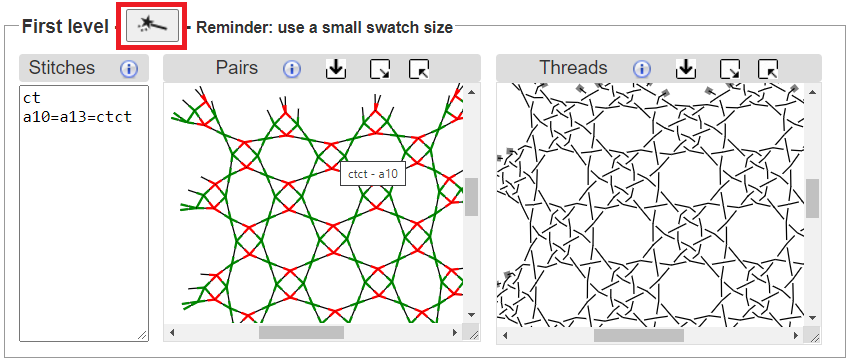
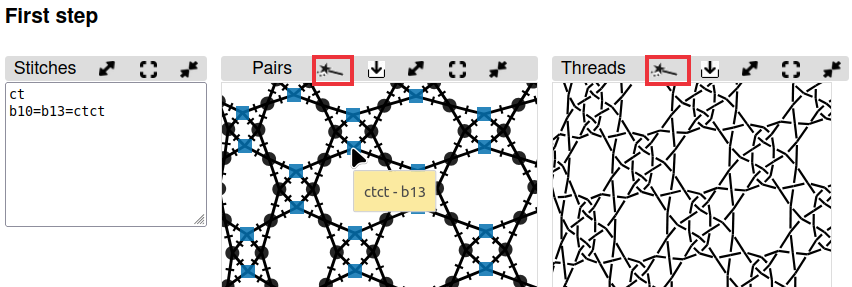
dropped old color code, cross ref

diff --git a/docs/Droste-effect.md b/docs/Droste-effect.md
@@ -6,30 +6,61 @@ title: Droste effect
 Droste effect
 =============
 
+* [Thread diagram as pair diagram](#thread-diagram-as-pair-diagram)
+* [Input boxes "stitches"](#input-boxes-stitches)
+* [Stitch gallery](#stitch-gallery)
+* [repeat the process](#repeat-the-process)
+* [Examples](#examples)
+
 Thread diagram as pair diagram
 ------------------------------
-**This feature is still under construction.  We welcome any suggestions on how to improve it.**
 
 In a typical pair diagram, two pairs intersect at each crossing and then continue.  In a thread diagram, two threads meet at each crossing and then continue.  So why not take a thread diagram, flatten all the over/under information, and use it as a pair diagram?  Using this technique, you can quickly create a new, usually more complex, pattern.  This process can be repeated over and over again, as long as your computer has enough power to handle the increased complexity.    In mathematics, this is called ["recursion"](https://en.wikipedia.org/wiki/Recursion).  In art, it is sometimes called the ["Droste effect"](https://en.wikipedia.org/wiki/Droste_effect).
 
 ![](images/simple-droste.png)
 
-To apply this technique in GroundForge, click on the ![wand](/GroundForge/images/wand.png) image beside _First level_ under the _Thread diagram as pair diagram_ heading. 
- 
-![](images/reuse.png)
+GroundForge uses its own [color code](/GroundForge-help/color-rules) shown on the second row. 
+This color-code accommodates unorthodox stitches.
 
-There are several options for specifying which stitches appear in the new thread diagram.
+The red arrow above represents a link to use the _thread diagram as pair diagram_.
+As generating diagrams may be time-consuming, you have to click a ![wand](/GroundForge/images/wand.png) to show the thread diagram. 
 
-By default, every stitch is `ctc`.  You can assign a new default stitch by typing the actions (such as `ct`) in the input box that appears to the left of the new pair diagram. You can also assign a stitch to every "cross" in the original thread diagram by typing `cross=...` (for example, `cross=ctcll`) in the input box.  Similarly, you assign a stitch to every "twist" in the original thread diagram using `twist=...`.  For finer control, you can specify a stitch for a specific intersection.  First find the identity of the intersection in the new pair diagram (hover over the intersection until the id appears), then give it a new value in the input box such as `b10=clcl`.  You can combine any of these options in the input box.  Use a new line or a comma to separate each instruction. After editing the stitches in the input box, click on the ![wand](/GroundForge/images/wand.png) image beside _First level_ under the _Thread diagram as pair diagram_ heading. 
+Input boxes "stitches"
+----------------------
+
+The input boxes called _stitches_ have several options for specifying which stitches appear in the new thread diagram.
+Grey backgrounds for diagrams indicate they are out of sync with the changes content of the input box.
+As the diagrams may be slow to render, changes in the input box cause grey backgrounds for the diagrams to indicate they are out of sync.
+Click the wands to update the diagrams.
+
+By default, every stitch is `ctc`.  You can assign a new default stitch by typing the actions (such as `ct`) in the input box that appears to the left of the new pair diagram. You can also assign a stitch to every "cross" in the original thread diagram by typing `cross=...` (for example, `cross=ctcll`) in the input box.  Similarly, you assign a stitch to every "twist" in the original thread diagram using `twist=...`.  For finer control, you can specify a stitch for a specific intersection.  First find the identity of the intersection in the new pair diagram (hover over the intersection until the id appears), then give it a new value in the input box such as `b10=clcl`.  You can combine any of these options in the input box.  Use a new line or a comma to separate each instruction.
 
 ![](images/droste-assign-stitches.png)
 
-To repeat this process a second time, click on the ![wand](/GroundForge/images/wand.png) image beside _Second level_ under the _Thread diagram as pair diagram_ heading.   This will create another new thread diagram by using the thread diagram from the first level as a pair diagram.
+Stitch gallery
+--------------
+
+Above the first step, you can find a stitch gallery with some fields and instructions that suggest to change the pair diagram. 
+In fact, it adds specifications at the bottom of the input box in a less elaborate way.
+Frequently occurring stitches are better specified manually at the top of the input box.
+The quick changes may cause the same id mentioned several times in the input box. 
+The last occurrence is the one that counts.
+To clean up you can use the search function of your browser to find duplicates in order remove the preceding ones.
+
+Repeat the process
+------------------
+
+To repeat this process a second time, click on the ![wand](/GroundForge/images/wand.png) images for the second step. This will create another new thread diagram by using the thread diagram from the first level as a pair diagram. 
+You may want to get the first step out of the way by [minimizing] the panels for the diagrams.
+Remember to refresh the thread diagram after refreshing the pair diagram, otherwise you still get outdated results.
+
+[minimizing]: /GroundForge-help/clips/resize
 
 ![](images/droste-repeat-assign-stitches.png)
 
 
-## Examples
+Examples
+--------
 
 Pair diagrams of several traditional grounds are very similar to thread diagrams of more basic grounds.  The following tables show a few examples.
  
@@ -66,10 +97,11 @@ Base  | Base &rarr; First Level    | First level     | [Whiting catalogue](/gw-l
 Experiment
 -------------------------
 
-For the base pattern, start with something small.  For example, enter an even number of alternating rows of `8`'s and `1`'s or `-`'s and `5`'s in the _Pattern definition_ area of _Edit pattern_. Then click on the blue square of the simple layout (see below).  Next click on the ![wand](/GroundForge/images/wand.png) image beside _First level_ under the _Thread diagram as pair diagram_ heading. Remember to keep the swatch size small.  A large swatch size may be very slow. 
+For the base pattern, start with something small.  For example, enter an even number of alternating rows of `8`'s and `1`'s or `-`'s and `5`'s in the [Pattern definition](https://d-bl.github.io/GroundForge/pattern) page. Then click on the blue square of the simple layout (see below).  Next follow the link to _stitches and threads_ and finally follow the link to the _Thread diagram as pair diagram_ page. Each page has a link back to the previous page and a button to show page specific help subjects.
+
+Remember to keep the swatch size small.  A large swatch size may be very slow. 
 
 ![](images/init-droste.png)
 
-Try a variety of stitches in the base pattern and the first and second level patterns.  Here are some to consider:
-
-{% include stitches.html %}
+Try a variety of stitches in the base pattern and the first and second level patterns.
+Try your own variations on the stitches show in the galleries.

diff --git a/docs/color-rules.md b/docs/color-rules.md
@@ -6,8 +6,17 @@ title: 4 colors per stitch
 Color codes
 ===========
 
-The Belgian color code and [similar systems](Color-Code) are designed for traditional styles of bobbin lace.
-When experimenting with unorthodox stitches and grounds we need more than half a dozen of colors for a universal legend.
+Various dialects of color codes for pair diagrams are used by bobbin lace designers:
+There is at least a [Belgian] version, a simplified [Danish] version and a [red-blue] version and perhaps more.
+These dialects use just one color per stitch what accommodates at most about half a dozen of stitches.
+
+These systems have in common that only one color represents a stitch.
+These are easy to draw by hand and sufficient for traditional styles of bobbin lace.
+When experimenting with unorthodox stitches and grounds we need to distinguish more than those half a dozen of colors.
+
+[Belgian]: https://www.mail-archive.com/lace@arachne.com/msg51345.html
+[Danish]: https://www.mail-archive.com/lace@arachne.com/msg51355.html
+[red-blue]: https://susanroberts.info/wp-content/uploads/2019/08/Working-diagrams-part-2.pdf
 
 [2x2swatches](/GroundForge/images/to-color-rules.png)  serves as a reminder:
 the color numbers are arranged in a clockwise order
@@ -61,15 +70,13 @@ The sampler by [Gertrude Whiting](gw-lace-to-gf) has some interesting examples i
 [F9](/GroundForge/stitches?whiting=F9_P185&patchWidth=26&patchHeight=26&m1=ctc&e1=ctc&o3=llcttctt&k3=cttctt&g3=ctcrrrctc&e3=ctc&c3=ctcllctc&g4=ctc&e4=ctc&i5=llctctt&g5=ctc&e5=ctc&c5=ctc&a5=rrctctt&e6=ctc&c6=ctc&o7=cttctt&k7=cttctt&g7=ctcrrctcrr&e7=ctc&c7=ctcllctcll&tile=--x-5-x---x-c-x-,-----w-----y-w--,--g-g-c---b---c-,---w8-mv-yx---xw,h-g-f-f-5-x---x-,-w8-mv---w-----y,--f-f-c---c---b-,--xw--x---xw-yx-&footsideStitch=ctctt&tileStitch=ctc&headsideStitch=ctctt&shiftColsSW=-8&shiftRowsSW=8&shiftColsSE=8&shiftRowsSE=8).
 Below a variation of F9 to show the difference between the tick marks for double and triple twists. The pattern shows also variations of winkie pins.
 
-![](images/F9-variation.png) ![](/gw-lace-to-gf/w/page185a.gif)
+![](images/F9-variation.png) ![GW sampler F9](images/gw-F9.png)
 
 Notes
 -----
 
 The color scheme was selected from [colorbrewer](https://colorbrewer2.org/?type=diverging&scheme=RdBu&n=5)
 because of its color-blind friendly properties.
-
-The pair diagrams based on thread diagrams still apply a [variation](Color-Code) of the Belgian color-code with buggy numbers of twist marks. 
 
 Not having twists between stitches encoded in the colors of the stitches, 
 makes the diagrams agnostic to the open (start with twist) and close (end with twist) method.

diff --git a/docs/_includes/Sidebar.md b/docs/_includes/Sidebar.md
@@ -20,9 +20,7 @@
   ![-](/GroundForge/images/minimize.png)
 * [Apply forces](/GroundForge-help/Icons) ![-](/GroundForge/images/animate.png)
 * [Download](/GroundForge-help/Download) ![-](/GroundForge/images/download.jpg)
-* Color codes, twist marks
-    * [1 color per stitch](/GroundForge-help/Color-Code)
-    * [up to 4 per stitch](/GroundForge-help/color-rules) ![-](/GroundForge/images/to-color-rules.png)
+* [Color code](/GroundForge-help/color-rules) ![-](/GroundForge/images/to-color-rules.png)
 
 ### Tutorials
 

diff --git a/docs/Icons.md b/docs/Icons.md
@@ -19,7 +19,6 @@ shows additional symbols used in legacy patterns.
 
 ![2x2](/GroundForge/images/to-color-rules.png) **Color code rules**  
 This icon leads to the rules for a color code with up to [four colors per stitch](color-rules).  
-The Droste pair diagrams still use a [single color per stitch](Color-Code).
 
 ![max](/GroundForge/images/maximize.png)
 ![reset](/GroundForge/images/reset-dimensions.png)
